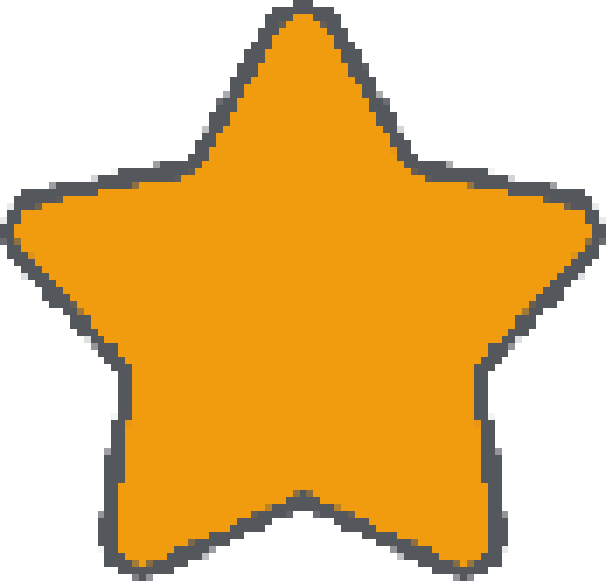
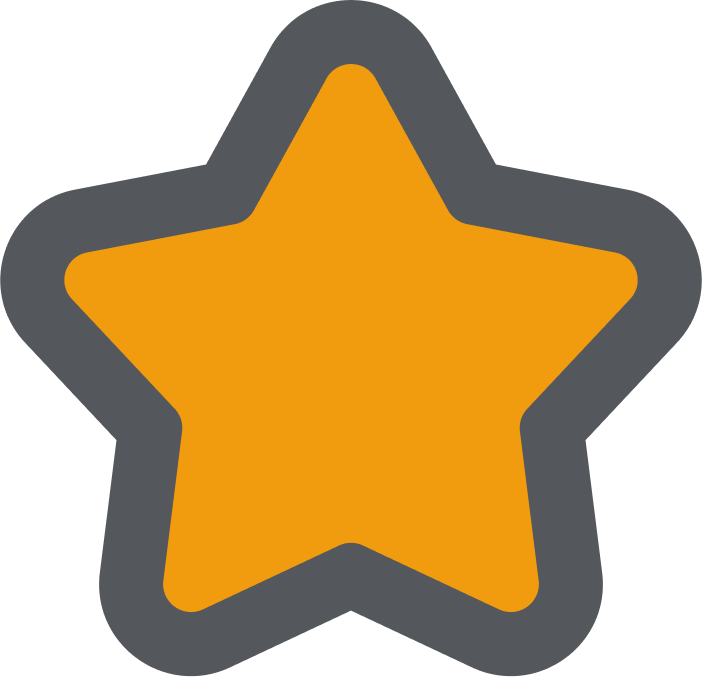
asdf

Changed region(s): [[0.0, 0.0, 1.0, 1.0]]

diff --git a/data/scenes/intro2.js b/data/scenes/intro2.js
@@ -16,8 +16,22 @@ export function getIntro2Scene() {
             { speaker: `📢`, text: "그러면... 비행기 표는 제가 이미 예약을 해두었으니," },
             { speaker: `📢`, text: "숙소를 예약하실 차례네요!" },
             { speaker: `📢`, text: "숙소만 예약하고 바로 프랑스로 떠나봅시다!" },
-            { speaker: `📢`, text: "참고로, 앞으로 주어지는 모든 퀘스트들에 대한 정보는 아래에서 확인하실 수 있습니다." },
-            { speaker: `📢`, text: "어떤 숙소를 예약해야 하는지 꼭 확인한 후에 예약해주세요! 😀" }
+            { speaker: `📢`, text: "참고로, 앞으로 주어지는 모든 퀘스트들에 대한 정보는 아래에서 확인하실 수 있습니다.",
+                customAction: () => {
+                    const questEl = document.querySelector(".quest");
+                    if (questEl) {
+                        questEl.classList.add("highlighted-quest");
+                    }
+                }
+            },
+            { speaker: `📢`, text: "어떤 숙소를 예약해야 하는지 꼭 확인한 후에 예약해주세요! 😀",
+                customAction: () => {
+                    const questEl = document.querySelector(".quest");
+                    if (questEl) {
+                        questEl.classList.remove("highlighted-quest");
+                    }
+                }
+            }
         ],
         
         nextScene: () => {

diff --git a/data/scenes/cafe1.js b/data/scenes/cafe1.js
@@ -15,6 +15,7 @@ export function getCafe1Scene() {
             { speaker: `👩🍳 Serveuse`, text: `Dans notre café, nous proposons du café, des croissants, du chocolat chaud, des sandwichs au jambon, et bien plus encore.`, personImg: `assets/images/cafePerson1.png`, overlayImg: `assets/images/cafeMenu.png` },
             { speaker: `👩🍳 Serveuse`, text: `Et vous, qu'est-ce que vous voulez ?`, personImg: `assets/images/cafePerson1.png`, overlayImg: `assets/images/cafeMenu.png` },
             { speaker: `👤 ${state.userName}`, text: `Je voudrais ... `, personImg: `assets/images/cafePerson1.png`, overlayImg: `assets/images/cafeMenu.png` },
+            { speaker: ``, text: `음... 배부르니까 하나만 먹어야지.`, personImg: `assets/images/cafePerson1.png`, overlayImg: `assets/images/cafeMenu.png` },
             { speaker: ``, text: `뭘 먹어볼까?`, personImg: `assets/images/cafePerson1.png`, overlayImg: `assets/images/cafeMenu.png` },
             { speaker: ``, text: ``,
                 choices: {

diff --git a/data/scenes/reservation2.js b/data/scenes/reservation2.js
@@ -22,6 +22,7 @@ export function getReservation2Scene() {
             { speaker: `📢`, text: "그런 여러분을 위해 제가 선물을 준비했습니다."},
             { speaker: `📢`, text: "이미 확인하셨을 수도 있겠지만... 아래에 보시면 단어장이 있습니다."},
             { speaker: `📢`, text: "단어장을 열어서 프랑스어 단어를 클릭하시면 한국어로 뜻이 나와요."},
+            { speaker: `📢`, text: "각 단어의 옆에 있는 별 모양을 클릭하시면 '즐겨찾기'로 저장할 수도 있습니다."},
             { speaker: `📢`, text: "혁신적이죠?"},
             { speaker: `📢`, text: "높은 점수를 위해 단어장을 잘 활용하시길 바랍니다."},
             { speaker: `📢`, text: "그러면 이제 본격적으로 시작!"},

diff --git a/data/scenes/end2.js b/data/scenes/end2.js
@@ -1,0 +1,19 @@
+import { state } from "../../script.js";
+
+export function getEnd2Scene() {
+
+    return {
+        id: "end2",
+        background_img: "",
+        narration: "",
+        lines: [
+            { speaker: "📢", text: "짜잔. 결과 출력 링크 추가 예정"},
+            { speaker: "📢", text: "마지막으로, 플레이주셔서 다시 한번 감사드립니다!"},
+            { speaker: "📢", text: "마지막 마무리 페이지... 추가 예정"},
+        ],
+
+        nextScene: () => {
+            console.log('dd');
+        }
+    }
+}

diff --git a/style.css b/style.css
@@ -14,6 +14,8 @@ html, body {
     height: 100%;
     margin: 0;
     padding: 0;
+    word-break: keep-all;
+    overflow-wrap: break-word;
 }
 
 body {
@@ -481,6 +483,15 @@ body {
     margin: 8px;
     margin-top: 0;
     z-index: 1;
+    transition: all 0.3s ease;
+}
+
+.quest.highlighted-quest {
+    border: 8px solid transparent;
+    border-image: url('assets/images/hotelCardSelected.png');
+    border-image-slice: 20 fill;
+    border-image-width: 8px;
+    transition: all 0.3s ease;
 }
 
 .quest-title {

diff --git a/data/scenes/end1.js b/data/scenes/end1.js
@@ -1,4 +1,5 @@
 import { state } from "../../script.js";
+import { getEnd2Scene } from "./end2.js";
 
 export function getEnd1Scene() {
 
@@ -31,7 +32,7 @@ export function getEnd1Scene() {
         ],
 
         nextScene: () => {
-            console.log('dd');
+            return getEnd2Scene();
         }
     }
 }

diff --git a/sceneManager.js b/sceneManager.js
@@ -197,6 +197,10 @@ export async function updateDialogue() {
         return;
     }
 
+    if (typeof line.customAction === "function") {
+        line.customAction();
+    }
+
 
     overlay.classList.remove("show");
   
